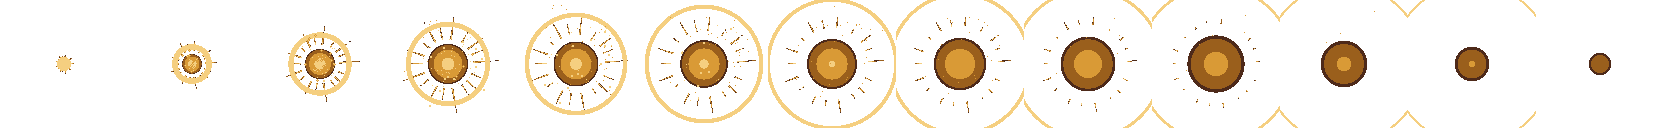
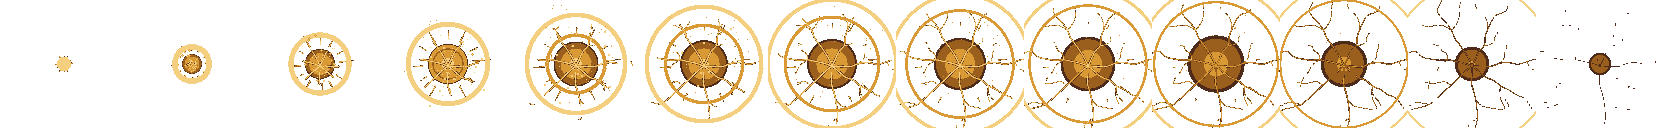
Corrupted walls: redo the holy purge (second ring, gold cracks racing along the veins, clean fade)

diff --git a/docs/asset_log.md b/docs/asset_log.md
@@ -14,7 +14,7 @@ Entries before 2026-11-09 were filled in afterwards from the git history and the
 | `art/ui/arrow_*.png` first attempts (shaded and ruined arrows, replaced by the script version) | `edit_image_pixen` | 2026-11-07 | 17 (1 + 1 + 1 + 12 + 2 rejected tries; discarded) |
 | `art/tiles/wall_corrupted.png` (kept; source `tools/art/pieces/corruption/wall_raw.png`) | `create_image_pixflux` | 2026-11-09 | 1 (3 tries: 1 kept; the other 2, a dark brick and an archway, are discarded) |
 | `art/corruption/veins_sheet.png` (source `tools/art/pieces/corruption/veins.png`): the pulsing green curse veins, a 12-frame loop. Redone 2026-11-09 as curved, tapering roots with side-branches and a pulse that runs outward from the heart (the first version was jagged lightning-like `bolt` layers) | `vfx_workbench` (own layers: smooth `shape` strokes with `reveal` for the travelling pulse, plus a `glow`; effect "eye-of-bell-corruption-veins", exported with `--replace`) | 2026-11-09 | 0 (free tool) |
-| `art/corruption/purge_sheet.png` (source `.../purge.png`): the gold holy light burning the veins away from the centre outward, 14 frames | `vfx_workbench` (own layers: `glow`, `ring`, `rays`, `particles`; "eye-of-bell-holy-purge") | 2026-11-09 | 0 (free tool) |
+| `art/corruption/purge_sheet.png` (source `.../purge.png`): the gold holy light burning the veins away from the centre outward, 14 frames. Redone 2026-11-09: a second, slower ring, gold cracks that race outward along the same roots as the green veins (so it reads as burning along them) and then cool and fade, instead of one plain ring | `vfx_workbench` (own layers: `glow`, two `ring`s, `shape` strokes with `reveal` on the veins' own paths, `rays`, `particles`; "eye-of-bell-holy-purge", exported with `--replace`) | 2026-11-09 | 0 (free tool) |
 | `art/corruption/ash_sheet.png` (source `.../ash.png`): the wall crumbling to ash and dust, 17 frames. Redone 2026-11-09: the dust is now two ragged, drifting layers that thin to a haze (the first version was one flat blob) | `vfx_workbench` (own layers: two `noise` discs on a dark ramp with growing radius and fading opacity, falling `particles`; "eye-of-bell-ash-crumble", exported with `--replace`) | 2026-11-09 | 0 (free tool) |
 | `art/intro/shot_01_road.png` | `create_image_pro` | 2026-11-07 | 25 |
 | `art/intro/shot_02_travellers.png` | `create_image_pro` | 2026-11-07 | 50 (one rejected try) |
